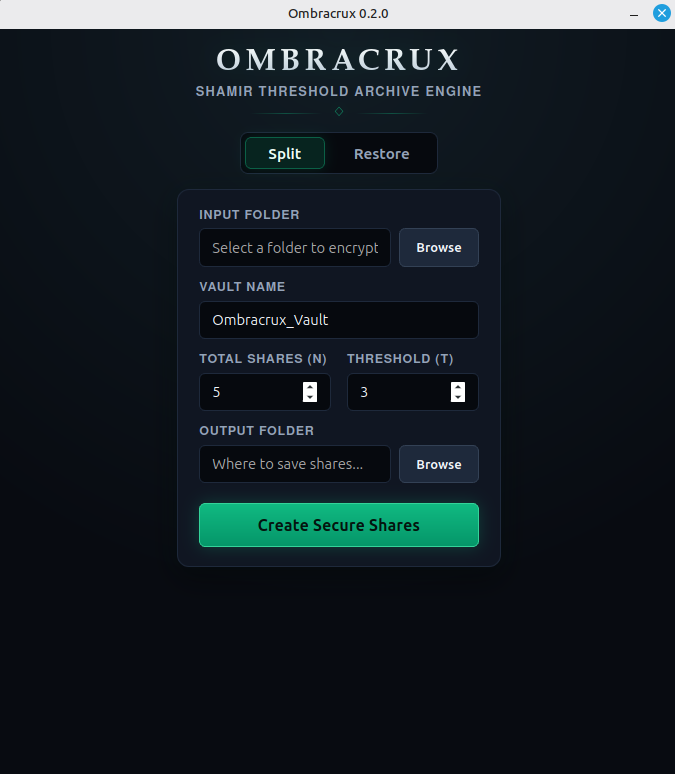
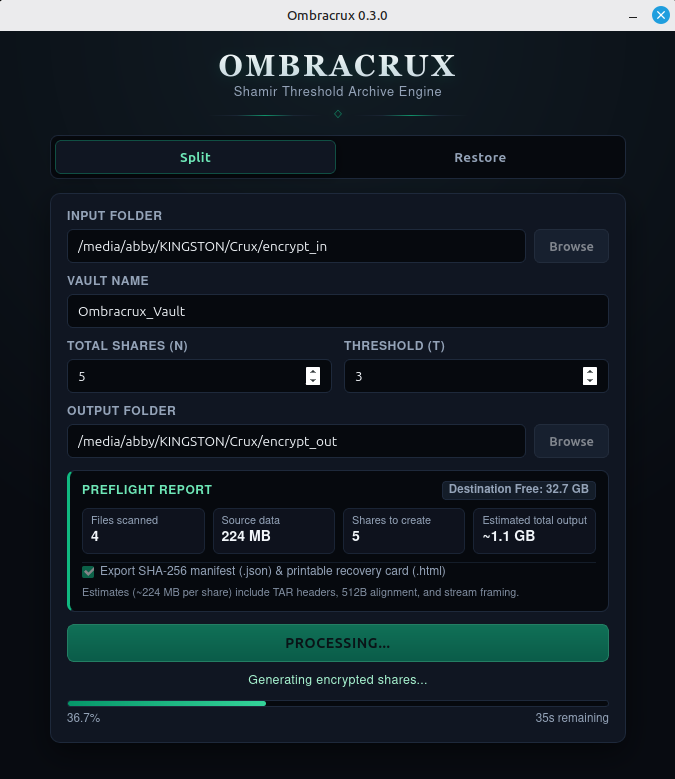
updating and preparing for v0.3.0

diff --git a/README.md b/README.md
@@ -37,6 +37,18 @@ To unlock and restore the original folder, a user-defined minimum number of shar
 
 ---
 
+## Download & Release Status
+
+Download pre-built desktop installers from the **[GitHub Releases Page](https://github.com/ABiswasDev/Ombracrux/releases)**:
+
+* **Linux:** `.deb`, `.rpm`, or `.AppImage`
+* **Windows:** `.msi` or `.exe` installer (64-bit)
+* **macOS:** `.dmg` disk image
+
+> **Release Note:** Active development happens on the `main` branch. If new features or hardening updates have been merged after the latest tagged release, build from `main` or wait for the next tagged release installer to access the newest capabilities.
+
+---
+
 ## User Guide
 
 You do not need a background in cryptography to use Ombracrux. Think of Ombracrux as a digital vault whose key is shattered into multiple pieces (**Shares**).
@@ -56,6 +68,8 @@ You do not need a background in cryptography to use Ombracrux. Think of Ombracru
 | **2-of-3** | 1 | 2 | Personal backup across 3 separate drives or locations |
 | **3-of-5** | 2 | 3 | Balanced long-term archival across multiple physical sites |
 | **4-of-7** | 3 | 4 | High-security cold storage distributed among multiple custodians |
+
+*Worked Example:* The number of shares you can afford to lose is always **$N - T$**. For example, in a **3-of-5** vault ($N = 5, T = 3$), you can lose up to **$5 - 3 = 2$ shares** and still recover your folder using the remaining **3 shares**.
 
 *Higher thresholds ($T$) require an attacker to compromise more locations, but also require you to keep at least $T$ shares intact and accessible. Note: Setting **Threshold ($T$) = 1** (`1-of-N`) provides redundancy against drive loss, but offers **no multi-share secrecy** because any single share can unlock the vault on its own.*
 
@@ -143,6 +157,8 @@ While sharing the conceptual workflow of threshold secret recovery, Ombracrux us
 
 ## Threat Models Ombracrux Deals With
 
+> **Key Operational Summary:** Successful recovery always requires **at least $T$ compatible shares with valid headers** AND **at least one intact encrypted payload stream** among your selected shares. Ombracrux is designed for trusted local endpoints and has not undergone an independent cryptographic security audit.
+
 Ombracrux is engineered to protect data at rest against specific physical, operational, and cryptographic risks:
 
 ### 1. Single-Point Physical Seizure or Device Theft
@@ -200,16 +216,6 @@ Ombracrux splits the **256-bit encryption key** into Shamir fragments, while **d
 
 ---
 
-## Download & Installation
-
-Download the latest installers from the [Releases Page](https://github.com/ABiswasDev/Ombracrux/releases):
-
-* **Linux:** `.deb`, `.rpm`, or `.AppImage`
-* **Windows:** `.msi` or `.exe` installer
-* **macOS:** `.dmg` disk image
-
----
-
 ## Developer Guide: Building & Testing from Source
 
 Ombracrux uses a Tauri workspace connecting a React/TypeScript frontend with the `ombracrux-core` Rust crate.
@@ -218,10 +224,11 @@ Ombracrux uses a Tauri workspace connecting a React/TypeScript frontend with the
 * **Node.js:** v20+ (CI builds with Node.js v24) and `npm`
 * **Rust:** Stable toolchain (`rustup`, `cargo`, `rustfmt`)
 * **Linux System Dependencies (Ubuntu / Mint / Debian):**
-  ```bash
-  sudo apt update
-  sudo apt install -y libwebkit2gtk-4.1-dev libgtk-3-dev build-essential curl wget file libxdo-dev libssl-dev libayatana-appindicator3-dev librsvg2-dev patchelf pkg-config libglib2.0-dev
-  
+```bash
+sudo apt update
+sudo apt install -y libwebkit2gtk-4.1-dev libgtk-3-dev build-essential curl wget file libxdo-dev libssl-dev libayatana-appindicator3-dev librsvg2-dev patchelf pkg-config libglib2.0-dev
+```
+
 ### 2. Local Development
 ```bash
 git clone https://github.com/ABiswasDev/Ombracrux.git
@@ -231,9 +238,7 @@ npm run tauri dev
 ```
 
 ### 3. Running Automated Checks & Tests
-Ombracrux includes 37 Rust unit and integration tests across ombracrux-core, ombracrux_lib, and tests/streaming.rs. Covered areas include Shamir key splitting and reconstruction, HMAC-SHA256 header authentication, byte-exact preflight size estimation (including empty entries and GNU LongLink paths), recovery manifest and HTML escaping, in-memory stream verification (including corrupted bytes, trailing bytes, truncation, malformed frame lengths, and malicious TAR traversal/symlink entries), transactional share rollback, symlink/reparse-point rejection, and multi-share restoration failover with staging cleanup.
-
-Run formatting, compilation, and the workspace test suite locally before submitting changes:
+Ombracrux includes 37 Rust unit and integration tests across `ombracrux-core`, `ombracrux_lib`, and `tests/streaming.rs`. Covered areas include Shamir key splitting and reconstruction, `HMAC-SHA256` header authentication, byte-exact preflight size estimation (including empty entries and GNU `LongLink` paths), recovery manifest and HTML escaping, in-memory stream verification (including corrupted bytes, trailing bytes, truncation, malformed frame lengths, and malicious TAR traversal/symlink entries), transactional share rollback, symlink/reparse-point rejection, and multi-share restoration failover with staging cleanup.
 
 All formatting, workspace compilation, and automated unit/integration tests are executed from `src-tauri`:
 ```bash
@@ -242,6 +247,7 @@ cargo fmt --all -- --check
 cargo check --workspace
 cargo test --workspace
 ```
+*Note: Passing automated tests demonstrates that the covered test cases behave as expected; it does not constitute an independent cryptographic audit or prove the absence of security vulnerabilities.*
 
 ### 4. Building Production Installers
 ```bash
@@ -314,5 +320,5 @@ Required Notice: Copyright (c) 2026 Abhishek Biswas (https://github.com/ABiswasD
 ### Trademark & Branding Policy
 The names **"Ombracrux"**, a part of **"Ombraveil"** Research entity, and all associated logos, emblems, and visual identifiers are proprietary trademarks of **Abhishek Biswas**. While the source code is made available under the PolyForm Noncommercial License 1.0.0, **no license or right to use these trademarks is granted**:
 
-* **No Rebranding as Official Releases:** You may not distribute modified versions or forks of this software under the names "Ombracrux", or "Ombraveil", or use confusingly similar names or logos that imply endorsement by or affiliation with **Abhishek Biswas**(https://www.linkedin.com/in/abby33459/).
+* **No Rebranding as Official Releases:** You may not distribute modified versions or forks of this software under the names "Ombracrux", or "Ombraveil", or use confusingly similar names or logos that imply endorsement by or affiliation with [**Abhishek Biswas**](https://www.linkedin.com/in/abby33459/).
 * **Attribution Required on Forks:** Any permitted non-commercial fork or modified redistribution must retain the `Required Notice` above and clearly state that it is an unofficial modification.
